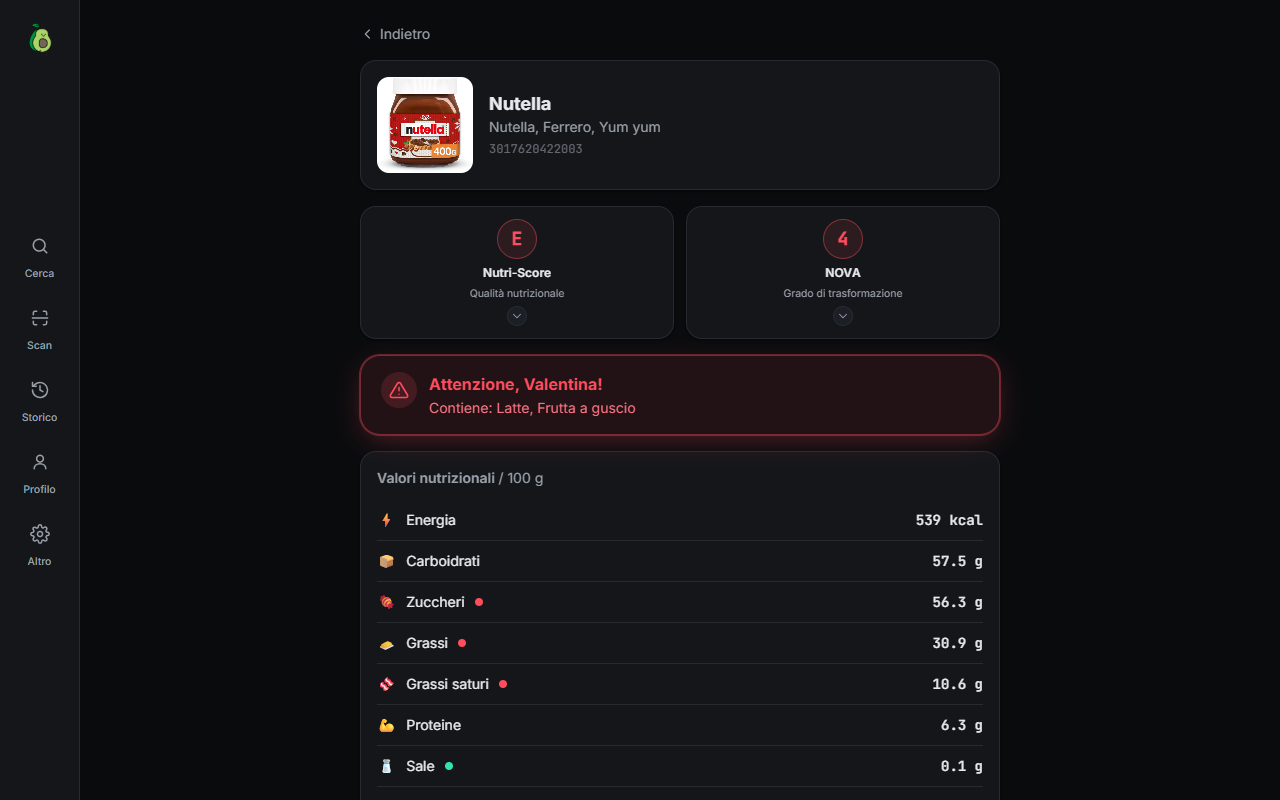
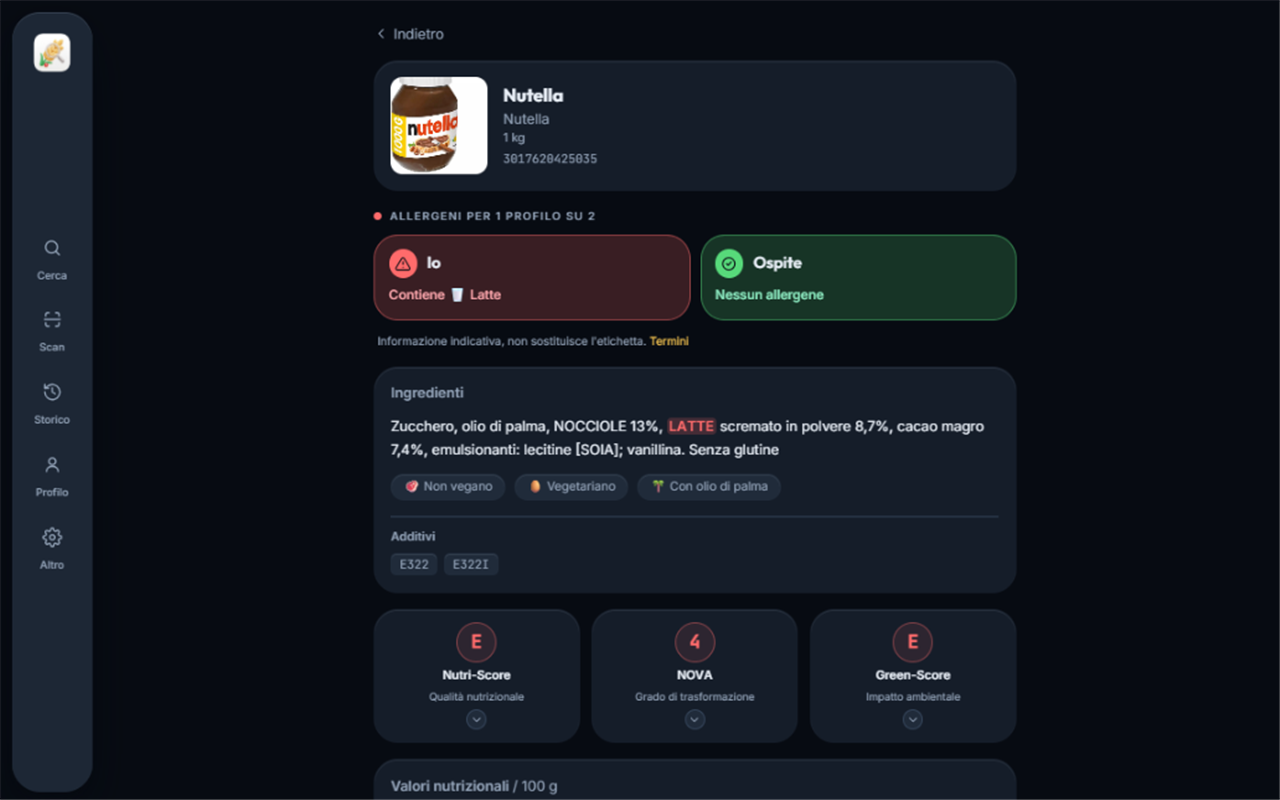
Repo vetrina: licenza MIT, README aggiornato, screenshot rifatti
- LICENSE (MIT)
- README: sezione struttura progetto + licenza, funzionalità multi-profilo aggiornata
- Screenshot rifatti con UI Inchiostro e verdetto multi-profilo
- package.json: versione allineata, metadati aggiunti
- Tono più neutro in CHANGELOG e commenti codice

diff --git a/src/data/allergenCatalog.ts b/src/data/allergenCatalog.ts
@@ -68,9 +68,11 @@ export function matchAllergens(
 // qui per il matching del verdetto, sia in IngredientsCard per l'highlight
 // visivo. Copre IT/EN oltre a FR/DE/ES/PT: i prodotti europei su OFF hanno
 // spesso il testo ingredienti in una lingua diversa da quella dell'app (es.
-// packaging multilingua OCR-ato in una sola lingua a caso, vedi nota su
-// ingredients_text_en in CLAUDE.md) — senza queste varianti il fallback
-// testuale mancherebbe comunque il match.
+// packaging multilingua OCR-ato in una sola lingua a caso — es. su Nutella
+// venduto in Francia, ingredients_text_en su OFF è spesso testo OCR
+// spazzatura non allineato al prodotto, quindi non va usato come fonte
+// primaria) — senza queste varianti il fallback testuale mancherebbe
+// comunque il match.
 export const ALLERGEN_KEYWORDS: Record<string, string[]> = {
   gluten: ['glutine', 'grano', 'frumento', 'orzo', 'segale', 'avena', 'farro', 'kamut', 'gluten', 'wheat', 'barley', 'rye', 'oat', 'blé', 'froment', 'orge', 'seigle', 'avoine', 'épeautre', 'weizen', 'gerste', 'roggen', 'hafer', 'dinkel', 'trigo', 'cebada', 'centeno', 'centeio', 'espelta'],
   crustaceans: ['crostacei', 'gambero', 'gamberi', 'granchio', 'aragosta', 'scampi', 'crustaceans', 'shrimp', 'crab', 'lobster', 'crustacés', 'crevette', 'homard', 'krebstiere', 'garnele', 'krabbe', 'hummer', 'crustáceos', 'camarón', 'camarão', 'cangrejo', 'caranguejo', 'langosta', 'lagosta'],

diff --git a/src/components/LogoTile.tsx b/src/components/LogoTile.tsx
@@ -3,7 +3,7 @@ interface LogoTileProps {
 }
 
 /**
- * Il logo di Fede (spiga di grano + lente d'ingrandimento + badge d'allerta).
+ * Il logo dell'app (spiga di grano + lente d'ingrandimento + badge d'allerta).
  *
  * Nessuna cornice intorno: il file è già un'icona finita, con la sua forma a
  * squircle, la sua luce e la sua ombra. Incorniciarlo in una `card` aggiungeva

diff --git a/CHANGELOG.md b/CHANGELOG.md
@@ -14,7 +14,7 @@ Il verdetto con più profili attivi diventa una scheda per persona.
 
 ## v0.6.1 — 2026-08-18
 
-Il logo dell'app torna a essere il file disegnato da Fede, ovunque.
+Il logo dell'app torna a essere il file che ho disegnato, ovunque.
 
 - **Nomi accorciati ovunque**: il dominio passa da `allergyverify-web.vercel.app` a **https://allergyverify.vercel.app**, e il repo GitHub da `AllergyVerifyWebApp` ad `AllergyVerify`. Il suffisso `-web` distingueva la webapp dalla vecchia app iOS AllergyScan, che non è più un progetto attivo. Il vecchio indirizzo è stato rimosso, non lasciato in redirect: chi aveva la webapp installata dal vecchio indirizzo deve riaggiungerla, e i profili salvati là restano su quell'origine — il `localStorage` non attraversa i domini.
 
@@ -30,7 +30,7 @@ Redesign completo dell'interfaccia ("Inchiostro") — la pelle era ancora quella
 
 - **Palette rifatta.** Fondo blu notte profondo (`#070b12`) al posto del nero-blu da dashboard, superfici a tre livelli, ombre tinte del fondo invece che nere. Provate sei varianti dal vivo sul telefono (da inchiostro a cacao) con un selettore temporaneo, poi rimosso.
 - **Colore di marca separato dai toni semantici.** Prima `--color-accent` (verde) era insieme il colore delle azioni e il verde di "sicuro per te". Ora il grano del logo (`--color-accent`) copre solo interazione e stato, mentre `--color-safe` significa una cosa sola: nessun allergene per te. Senza questa separazione, col grano come colore di marca un verdetto positivo sarebbe diventato giallo.
-- **Superfici materiche.** Le card si staccano dal fondo per salto di tono più un filo di luce sul bordo alto, senza bordo grigio; nuova `inset-surface` per gli elementi che affondano (campi di testo, immagini nelle liste, chip selezionati). Raggi da 16 a 24px. Riferimento visivo indicato da Fede: family.co.
+- **Superfici materiche.** Le card si staccano dal fondo per salto di tono più un filo di luce sul bordo alto, senza bordo grigio; nuova `inset-surface` per gli elementi che affondano (campi di testo, immagini nelle liste, chip selezionati). Raggi da 16 a 24px. Riferimento visivo: family.co.
 - **Outfit per i titoli** (`--font-display`, +47 KB in due subset): nome pagina, nome prodotto e riga del verdetto. Il testo di lettura e i dati restano su Inter. Scala tipografica di un gradino più contenuta sotto i 640px.
 - **Verdetto allergeni ridisegnato**: disco icona a colore pieno, titolo più grande, allergeni elencati come chip invece che in una riga di virgole, superficie tonale dal 10% al 20% (sul nuovo fondo il 10% era un grigio appena colorato).
 - **Pagina prodotto riordinata**: nome → verdetto → confronto profili → ingredienti (la prova del verdetto) → punteggi → nutrienti. Prima Nutri-Score e NOVA stavano sopra al verdetto.
@@ -51,7 +51,7 @@ Redesign completo dell'interfaccia ("Inchiostro") — la pelle era ancora quella
 
 ## v0.5.3 — 2026-08-17
 
-- Sostituito il logo (avocado della vecchia app iOS) con il nuovo logo creato da Fede — spiga di grano, lente d'ingrandimento, badge d'allerta. Icone di sistema (favicon, apple-touch-icon, icone PWA) rigenerate dal nuovo artwork; cache-busting favicon/apple-touch-icon aggiornato a `-v3` (iOS/Safari le cachea per URL). Dentro l'interfaccia scura (sidebar, pagina Info, modale installa) usato `LogoTile`, un piccolo riquadro con bordo/ombra che incornicia l'immagine vera (un primo tentativo di ridisegnarla come icona piatta era irriconoscibile ed è stato scartato).
+- Sostituito il logo (avocado della vecchia app iOS) con il nuovo logo che ho disegnato — spiga di grano, lente d'ingrandimento, badge d'allerta. Icone di sistema (favicon, apple-touch-icon, icone PWA) rigenerate dal nuovo artwork; cache-busting favicon/apple-touch-icon aggiornato a `-v3` (iOS/Safari le cachea per URL). Dentro l'interfaccia scura (sidebar, pagina Info, modale installa) usato `LogoTile`, un piccolo riquadro con bordo/ombra che incornicia l'immagine vera (un primo tentativo di ridisegnarla come icona piatta era irriconoscibile ed è stato scartato).
 - Rebrand completato anche su repo GitHub (`AllergyVerifyWebApp`) e dominio Vercel (`allergyverify-web.vercel.app`), con redirect attivi dai vecchi indirizzi.
 
 ## v0.5.2 — 2026-08-06

diff --git a/README.md b/README.md
@@ -22,8 +22,18 @@ Scansiona o cerca un prodotto alimentare e scopri subito se contiene i tuoi alle
 - ⚠ **Verdetto allergie**: banner rosso/verde in base al profilo attivo (14 allergeni UE)
 - 📊 **Valori nutrizionali** per 100 g, con Nutri-Score / NOVA / Green-Score
 - 🕘 **Storico** di scansioni e ricerche
-- 👤 **Profili allergie** multipli, salvati solo sul dispositivo
+- 👤 **Profili allergie** multipli, salvati solo sul dispositivo — con più profili attivi il verdetto mostra una scheda per persona
 - 🌍 **Multilingua** italiano/inglese, con traduzione automatica degli ingredienti
+
+## Struttura del progetto
+
+```
+src/          codice sorgente (componenti, pagine, dati, i18n, hook)
+public/       asset statici serviti così come sono (icone PWA, favicon)
+assets/       sorgente grafica non pubblicata (logo)
+docs/         documentazione pubblica (screenshot del README)
+scripts/      script di supporto (rigenerazione icone dal logo sorgente)
+```
 
 ## Dati e privacy
 
@@ -49,3 +59,7 @@ Stack: Vite · React · TypeScript · Tailwind CSS 4 · react-router · @zxing/b
 Il sito è pubblicato su **Vercel**: https://allergyverify.vercel.app
 
 Deploy manuale dalla cartella del progetto: `npx vercel --prod`. Con la Git integration di Vercel attiva, ogni push su `main` viene pubblicato automaticamente (dopo che la CI su GitHub Actions ha verificato lint e build).
+
+## Licenza
+
+Distribuito con licenza MIT. Vedi [LICENSE](LICENSE).
